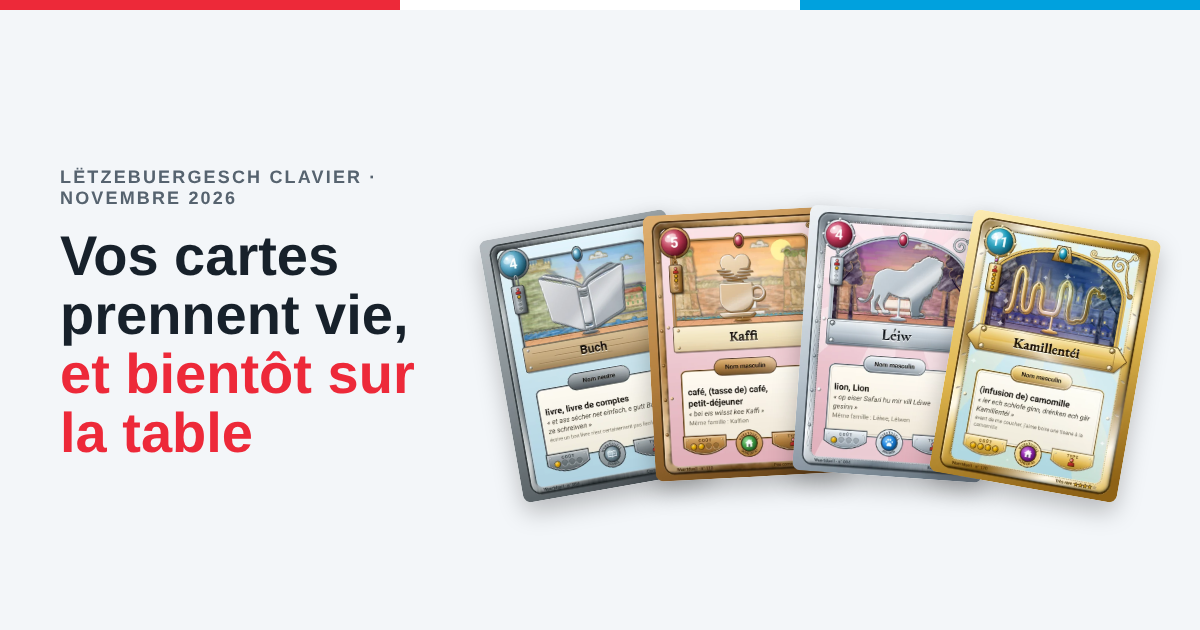
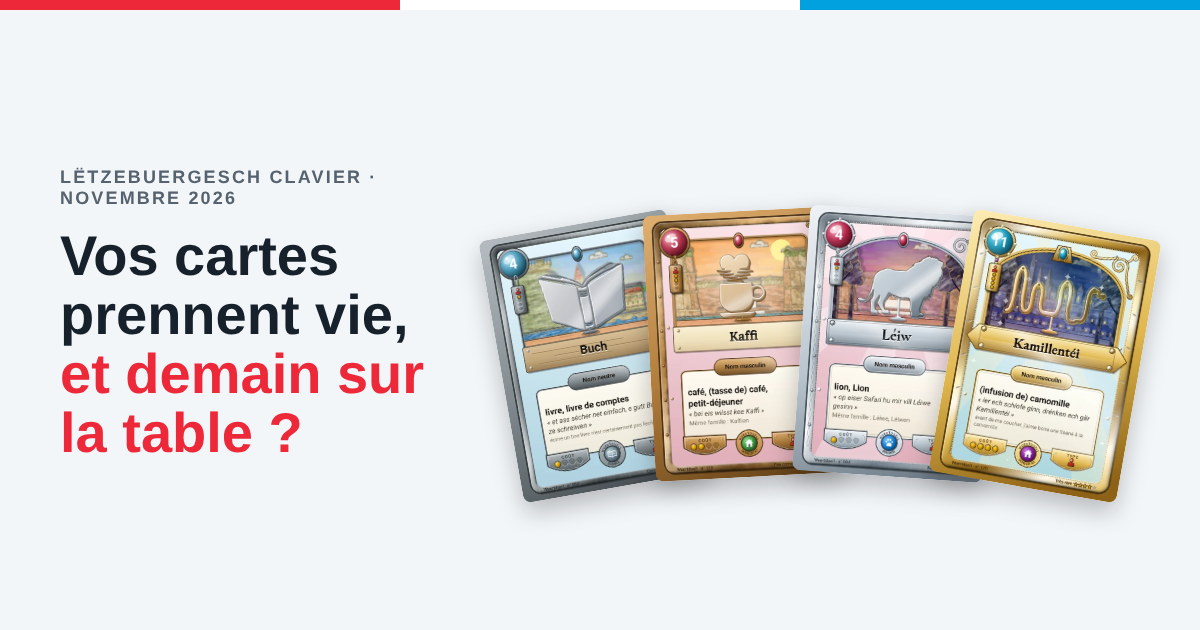
Newsletter de novembre : le jeu de cartes présenté comme une idée, avec un sondage sur l'envie et le prix
Le prix, l'objectif de 350 boîtes et la réservation sont retirés de la lettre :
le jeu n'en est qu'au concept. Une question à un clic, qui marche aussi dans
un e-mail, ouvre sondage-cartes.html : envie, public, prix juste et prix trop
cher, sans prix affiché avant pour ne pas orienter les réponses.

Claude-Session: https://claude.ai/code/session_01Co1KApbE2zjZJU9ZJG8qgA

Changed region(s): [[0.0925, 0.5429, 0.37, 0.7238]]

diff --git a/docs/newsletter/2026-11.html b/docs/newsletter/2026-11.html
@@ -4,21 +4,21 @@
 <meta charset="utf-8">
 <meta name="viewport" content="width=device-width, initial-scale=1, viewport-fit=cover">
 <title>Lëtzebuergesch Clavier, novembre 2026</title>
-<meta name="description" content="Des cartes peintes à la gouache qui prennent vie, les mots de tous les jours pour apprendre, et un vrai jeu de cartes en luxembourgeois à réserver : les nouveautés de novembre.">
+<meta name="description" content="Des cartes peintes à la gouache qui prennent vie, les mots de tous les jours pour apprendre, et une idée à tester avec vous : un vrai jeu de cartes en luxembourgeois.">
 <link rel="icon" type="image/x-icon" href="../favicon.ico">
 <meta property="og:type" content="article">
 <meta property="og:site_name" content="Lëtzebuergesch Clavier">
 <meta property="og:locale" content="fr_FR">
-<meta property="og:title" content="Vos cartes prennent vie, et bientôt sur la table">
-<meta property="og:description" content="Des cartes peintes à la gouache qui prennent vie, les mots de tous les jours pour apprendre, et un vrai jeu de cartes en luxembourgeois à réserver : les nouveautés de novembre.">
+<meta property="og:title" content="Vos cartes prennent vie, et demain sur la table ?">
+<meta property="og:description" content="Des cartes peintes à la gouache qui prennent vie, les mots de tous les jours pour apprendre, et une idée à tester avec vous : un vrai jeu de cartes en luxembourgeois.">
 <meta property="og:url" content="https://famibelle.github.io/LuxKeyb/newsletter/2026-11.html">
 <meta property="og:image" content="https://famibelle.github.io/LuxKeyb/newsletter/2026-11/partage.png">
 <meta property="og:image:width" content="1200">
 <meta property="og:image:height" content="630">
 <meta property="og:image:alt" content="Quatre cartes du Wuertduell en éventail : Buch, Kaffi, Léiw et Kamillentéi.">
 <meta name="twitter:card" content="summary_large_image">
-<meta name="twitter:title" content="Vos cartes prennent vie, et bientôt sur la table">
-<meta name="twitter:description" content="Des cartes peintes à la gouache qui prennent vie, les mots de tous les jours pour apprendre, et un vrai jeu de cartes en luxembourgeois à réserver : les nouveautés de novembre.">
+<meta name="twitter:title" content="Vos cartes prennent vie, et demain sur la table ?">
+<meta name="twitter:description" content="Des cartes peintes à la gouache qui prennent vie, les mots de tous les jours pour apprendre, et une idée à tester avec vous : un vrai jeu de cartes en luxembourgeois.">
 <meta name="twitter:image" content="https://famibelle.github.io/LuxKeyb/newsletter/2026-11/partage.png">
 <link rel="preconnect" href="https://fonts.googleapis.com">
 <link rel="stylesheet" href="https://fonts.googleapis.com/css2?family=Bricolage+Grotesque:opsz,wght@12..96,500;12..96,700;12..96,800&family=Literata:ital,opsz,wght@0,7..72,400;0,7..72,600;1,7..72,400&display=swap">
@@ -92,6 +92,11 @@ figcaption{font:500 13px/1.45 var(--display); color:var(--doux); text-align:cent
 .chiffres b{font:800 26px/1 var(--display); color:var(--rouge)}
 .chiffres span{font:500 13px/1.3 var(--display); color:var(--doux)}
 
+.sondage{background:var(--puce); border-radius:10px; padding:20px 22px; display:grid; gap:14px; margin-top:6px}
+.sondage .question{font:700 20px/1.3 var(--display)}
+.reponses{display:flex; flex-wrap:wrap; gap:10px}
+.note-sondage{font-size:15px; color:var(--doux)}
+
 .appel{display:grid; gap:14px; justify-items:start}
 .bouton{display:inline-block; background:var(--rouge); color:#fff; text-decoration:none; font:700 16px/1 var(--display); padding:15px 22px; border-radius:8px}
 .bouton.second{background:transparent; color:var(--encre); border:2px solid var(--encre)}
@@ -107,8 +112,8 @@ footer{font-size:13px; color:var(--doux); display:grid; gap:6px}
 
     <header>
       <div class="tete"><span>Lëtzebuergesch Clavier</span><span>Novembre 2026</span></div>
-      <h1>Vos cartes prennent vie, <em>et bientôt sur la table</em></h1>
-      <p class="chapo">Ce mois-ci, les cartes de l'application ont été entièrement repeintes, les mots de tous les jours ont leur propre album, et un projet nous tient à cœur : un vrai jeu de cartes en luxembourgeois, à tenir dans la main.</p>
+      <h1>Vos cartes prennent vie, <em>et demain sur la table ?</em></h1>
+      <p class="chapo">Ce mois-ci, les cartes de l'application ont été entièrement repeintes, les mots de tous les jours ont leur propre album, et nous avons une question pour vous : un vrai jeu de cartes en luxembourgeois, ça vous dirait ?</p>
     </header>
 
     <section>
@@ -148,13 +153,13 @@ footer{font-size:13px; color:var(--doux); display:grid; gap:6px}
         <img src="2026-11/c_leiw.webp" alt="Carte rare « Léiw » (lion), de la boîte de départ" width="480" height="671">
         <img src="2026-11/c_kamillentei.webp" alt="Carte très rare « Kamillentéi » (camomille), de la boîte Niveau A2" width="480" height="671">
       </div>
-      <p class="legende-eventail">Quatre cartes, une par boîte, de la plus courante à la plus rare. Ce sont les vraies cartes prévues pour l'impression.</p>
+      <p class="legende-eventail">Quatre maquettes, de la carte la plus courante à la plus rare. Elles existent déjà dans l'application ; on les imagine maintenant en carton.</p>
     </div>
 
     <section>
-      <span class="version">Le projet du moment</span>
-      <h2>Le Wuertduell, un jeu de cartes en luxembourgeois</h2>
-      <p>Vous êtes nombreux à nous l'avoir demandé : « Et en vrai, on peut les avoir, ces cartes ? » Nous y travaillons. Le <strong>Wuertduell</strong> est un jeu de cartes à jouer à deux, en famille ou en classe, pour apprendre le luxembourgeois sans s'en rendre compte.</p>
+      <span class="version">Une idée à l'étude</span>
+      <h2>Et si les cartes sortaient du téléphone ?</h2>
+      <p>Nous imaginons un vrai jeu de cartes en luxembourgeois, le <strong>Wuertduell</strong>, à jouer à deux, en famille ou en classe, pour apprendre la langue sans s'en rendre compte. Rien n'est encore décidé : ni la date, ni le prix. Avant d'aller plus loin, nous voulons savoir si l'idée vous plaît.</p>
 
       <h3>Deux façons de jouer</h3>
       <ul>
@@ -162,26 +167,24 @@ footer{font-size:13px; color:var(--doux); display:grid; gap:6px}
         <li><strong>Le Wuertduell, dès 8 ans</strong> : un vrai duel où l'on choisit ses cartes et sa stratégie. <a href="../regle-du-jeu.html">Lire la règle</a>.</li>
       </ul>
 
-      <h3>Quatre boîtes à collectionner</h3>
+      <h3>Des boîtes à collectionner</h3>
+      <p>Chaque boîte opposerait deux familles de mots, par exemple :</p>
       <div class="boites">
-        <div class="boite" style="--teinte:#ed2939"><strong>La boîte de départ</strong><span><i>Déieren</i> contre <i>Iessen</i> : les animaux contre ce qu'on mange.</span></div>
-        <div class="boite" style="--teinte:#2e9e4f"><strong>L'extension</strong><span><i>Schoul</i> contre <i>Natur</i> : l'école contre la nature.</span></div>
-        <div class="boite" style="--teinte:#00a1de"><strong>Niveau A1</strong><span><i>Doheem</i> contre <i>Dobaussen</i> : les premiers mots, à la maison et dehors.</span></div>
-        <div class="boite" style="--teinte:#7b4fc4"><strong>Niveau A2</strong><span><i>Doheem</i> contre <i>Dobaussen</i> : la suite, pour aller plus loin.</span></div>
+        <div class="boite" style="--teinte:#ed2939"><strong>Les animaux contre ce qu'on mange</strong><span><i>Déieren</i> contre <i>Iessen</i></span></div>
+        <div class="boite" style="--teinte:#2e9e4f"><strong>L'école contre la nature</strong><span><i>Schoul</i> contre <i>Natur</i></span></div>
+        <div class="boite" style="--teinte:#00a1de"><strong>Les premiers mots, à la maison et dehors</strong><span><i>Doheem</i> contre <i>Dobaussen</i>, niveau A1</span></div>
+        <div class="boite" style="--teinte:#7b4fc4"><strong>La suite, pour aller plus loin</strong><span><i>Doheem</i> contre <i>Dobaussen</i>, niveau A2</span></div>
       </div>
-      <div class="chiffres">
-        <div><b>208</b><span>cartes à collectionner</span></div>
-        <div><b>4</b><span>raretés, du fer à l'or</span></div>
-        <div><b>0</b><span>mot en double d'une boîte à l'autre</span></div>
-      </div>
-      <p>Chaque boîte se joue seule, dès qu'on l'ouvre, ou avec les autres. Plus une carte est rare, plus son cadre est précieux. Et dans chaque boîte, un <strong>code ajoute ses 52 cartes au carnet de l'application</strong> : la collection continue sur le téléphone.</p>
-      <p>Les mots, leurs sens et leurs phrases viennent du dictionnaire officiel, le <a href="https://lod.lu">Lëtzebuerger Online Dictionnaire</a>.</p>
+      <p>Chaque boîte se jouerait seule, dès qu'on l'ouvre, ou avec les autres. Plus une carte est rare, plus son cadre est précieux. Et un code dans la boîte ajouterait ses cartes au carnet de l'application : la collection continuerait sur le téléphone.</p>
 
-      <h3>Réservez, sans rien payer</h3>
-      <p>Pour proposer une boîte à <strong>9,90 €</strong>, il faut l'imprimer en série. Nous lançons donc l'impression dès que <strong>350 boîtes</strong> sont réservées. Réserver ne vous engage à rien et ne coûte rien : nous vous écrivons seulement quand l'impression se prépare.</p>
-      <p>Vous pourrez recevoir vos boîtes chez vous, au Luxembourg, en Belgique, en France ou en Allemagne, ou venir les chercher sur l'un de nos stands.</p>
-      <div class="appel">
-        <a class="bouton" href="../commander.html">Réserver mes boîtes</a>
+      <div class="sondage">
+        <p class="question">Ce jeu vous donnerait-il envie ?</p>
+        <div class="reponses">
+          <a class="bouton" href="https://famibelle.github.io/LuxKeyb/sondage-cartes.html?envie=oui&amp;source=newsletter-2026-11">Oui, j'aimerais l'avoir</a>
+          <a class="bouton second" href="https://famibelle.github.io/LuxKeyb/sondage-cartes.html?envie=peut-etre&amp;source=newsletter-2026-11">Peut-être</a>
+          <a class="bouton second" href="https://famibelle.github.io/LuxKeyb/sondage-cartes.html?envie=non&amp;source=newsletter-2026-11">Pas pour moi</a>
+        </div>
+        <p class="note-sondage">Un clic suffit. Si vous avez une minute de plus, trois petites questions suivent, dont une sur le prix qui vous semblerait juste. Aucune adresse e-mail n'est demandée.</p>
       </div>
     </section>
 
@@ -194,7 +197,7 @@ footer{font-size:13px; color:var(--doux); display:grid; gap:6px}
 
     <div class="bref">
       <h2>Et pour les curieux…</h2>
-      <p>Notre laboratoire regorge d'expériences. Ce sont des idées encore en chantier, que vous pouvez essayer avant tout le monde :</p>
+      <p>Notre laboratoire regorge d'expériences. Ce sont des idées encore en chantier, que vous pouvez essayer avant tout le monde&nbsp;:</p>
       <ul>
         <li><strong>Qui a dit quoi ?</strong> Vous déposez l'enregistrement d'une conversation en luxembourgeois. Le texte apparaît, avec le nom de chaque personne qui parle.</li>
         <li><strong>Les sous-titres en direct</strong> : on parle luxembourgeois et le texte s'affiche à l'écran au fur et à mesure, avec sa traduction en français juste en dessous.</li>

diff --git a/docs/sondage-cartes.html b/docs/sondage-cartes.html
@@ -1,0 +1,149 @@
+<!doctype html>
+<html lang="fr">
+<head>
+<meta charset="utf-8">
+<meta name="viewport" content="width=device-width, initial-scale=1, viewport-fit=cover">
+<title>Votre avis sur les cartes</title>
+<meta name="description" content="Un jeu de cartes en luxembourgeois : est-ce qu'il vous donne envie, et à quel prix ? Quatre questions, une minute.">
+<meta name="robots" content="noindex">
+<link rel="icon" type="image/x-icon" href="favicon.ico">
+<link rel="preconnect" href="https://fonts.googleapis.com">
+<link rel="stylesheet" href="https://fonts.googleapis.com/css2?family=Bricolage+Grotesque:opsz,wght@12..96,500;12..96,700;12..96,800&family=Literata:opsz,wght@7..72,400;7..72,600&display=swap">
+<style>
+/* Sondage de la newsletter de novembre 2026 : l'envie pour le jeu de cartes
+   et le prix jugé juste. Les questions de prix viennent AVANT tout prix
+   affiché, pour ne pas influencer la réponse (pas de prix dans la lettre).
+   Les réponses partent sur Formspree, liste « sondage-cartes-2026-11 ». */
+*,*::before,*::after{box-sizing:border-box}
+:root{
+  --fond:#f3f6f9; --papier:#ffffff; --encre:#17212b; --doux:#56636f; --filet:#dbe3ea;
+  --rouge:#ed2939; --bleu:#00a1de; --bleu-encre:#006f9a; --puce:#eef4f8;
+  --display:"Bricolage Grotesque", "Segoe UI", system-ui, sans-serif;
+  --texte:Literata, Georgia, "Times New Roman", serif;
+}
+@media (prefers-color-scheme: dark){:root:not([data-theme="light"]){
+  --fond:#0e141a; --papier:#151d25; --encre:#e8eef3; --doux:#9aa8b4; --filet:#2a3641;
+  --rouge:#ff5a66; --bleu:#3cbcef; --bleu-encre:#7fd3f5; --puce:#1c2731; color-scheme:dark}}
+:root[data-theme="dark"]{
+  --fond:#0e141a; --papier:#151d25; --encre:#e8eef3; --doux:#9aa8b4; --filet:#2a3641;
+  --rouge:#ff5a66; --bleu:#3cbcef; --bleu-encre:#7fd3f5; --puce:#1c2731; color-scheme:dark}
+body{margin:0; background:var(--fond); color:var(--encre); font:17px/1.6 var(--texte); padding:32px 16px 48px}
+.cadre{max-width:620px; margin:0 auto; background:var(--papier); border:1px solid var(--filet); border-radius:6px; overflow:hidden}
+.drapeau{display:flex; height:6px}
+.drapeau span{flex:1}
+.drapeau span:nth-child(1){background:#ed2939}.drapeau span:nth-child(2){background:#fff; border-block:1px solid var(--filet)}.drapeau span:nth-child(3){background:#00a1de}
+.corps{padding:32px clamp(20px,6vw,44px) 36px; display:grid; gap:26px}
+h1{font:800 clamp(28px,6vw,38px)/1.1 var(--display); margin:0; letter-spacing:-.02em}
+p{margin:0}
+.chapo{color:var(--doux)}
+fieldset{border:0; margin:0; padding:0; display:grid; gap:8px}
+legend{font:700 18px/1.3 var(--display); padding:0; margin-bottom:8px}
+.aide{font-size:15px; color:var(--doux); margin:-4px 0 4px}
+label.choix{display:flex; gap:10px; align-items:center; padding:10px 14px; border:1px solid var(--filet); border-radius:8px; cursor:pointer}
+label.choix:has(input:checked){border-color:var(--rouge); background:var(--puce)}
+input[type=radio],input[type=checkbox]{accent-color:#ed2939; width:18px; height:18px; flex:none}
+textarea,input[type=email]{width:100%; padding:10px; font:16px var(--texte); border:1px solid var(--filet); border-radius:8px; background:var(--papier); color:var(--encre)}
+textarea{min-height:90px}
+button{background:var(--rouge); color:#fff; border:0; font:700 16px/1 var(--display); padding:15px 22px; border-radius:8px; cursor:pointer; justify-self:start}
+button:focus-visible{outline:3px solid var(--bleu); outline-offset:3px}
+.note{font-size:14px; color:var(--doux)}
+#message{font:700 17px/1.4 var(--display)}
+a{color:var(--bleu-encre)}
+</style>
+</head>
+<body>
+<main class="cadre">
+  <div class="drapeau" aria-hidden="true"><span></span><span></span><span></span></div>
+  <div class="corps">
+    <h1>Un jeu de cartes en luxembourgeois : votre avis</h1>
+    <p class="chapo">Ce n'est encore qu'une idée. Vos réponses nous disent s'il faut la mener jusqu'au bout, et comment. Quatre questions, une minute, et aucune adresse e-mail obligatoire.</p>
+
+    <form id="sondage" action="https://formspree.io/f/mvgwnlky" method="POST" style="display:grid;gap:26px">
+      <input type="hidden" name="_subject" value="Sondage : le jeu de cartes">
+      <input type="hidden" name="liste" value="sondage-cartes-2026-11">
+      <input type="hidden" name="source" id="source" value="">
+
+      <fieldset>
+        <legend>1. Ce jeu vous donne-t-il envie ?</legend>
+        <label class="choix"><input type="radio" name="envie" value="oui" required> Oui, j'aimerais l'avoir</label>
+        <label class="choix"><input type="radio" name="envie" value="peut-etre"> Peut-être, je veux en savoir plus</label>
+        <label class="choix"><input type="radio" name="envie" value="non"> Pas pour moi</label>
+      </fieldset>
+
+      <fieldset>
+        <legend>2. Pour qui ?</legend>
+        <p class="aide">Plusieurs réponses possibles.</p>
+        <label class="choix"><input type="checkbox" name="pour_qui" value="enfants"> Mes enfants ou petits-enfants</label>
+        <label class="choix"><input type="checkbox" name="pour_qui" value="moi"> Moi, pour apprendre la langue</label>
+        <label class="choix"><input type="checkbox" name="pour_qui" value="classe"> Une classe, un atelier, une association</label>
+        <label class="choix"><input type="checkbox" name="pour_qui" value="cadeau"> Pour offrir</label>
+      </fieldset>
+
+      <fieldset>
+        <legend>3. Pour une boîte de 54 cartes, quel prix vous semble juste ?</legend>
+        <label class="choix"><input type="radio" name="prix_juste" value="moins de 5 €" required> Moins de 5 €</label>
+        <label class="choix"><input type="radio" name="prix_juste" value="5 à 8 €"> De 5 à 8 €</label>
+        <label class="choix"><input type="radio" name="prix_juste" value="8 à 12 €"> De 8 à 12 €</label>
+        <label class="choix"><input type="radio" name="prix_juste" value="12 à 15 €"> De 12 à 15 €</label>
+        <label class="choix"><input type="radio" name="prix_juste" value="plus de 15 €"> Plus de 15 €</label>
+      </fieldset>
+
+      <fieldset>
+        <legend>4. À partir de quel prix ne l'achèteriez-vous plus ?</legend>
+        <p class="aide">Le prix où vous vous dites : « c'est trop cher ».</p>
+        <label class="choix"><input type="radio" name="prix_trop_cher" value="5 €" required> 5 €</label>
+        <label class="choix"><input type="radio" name="prix_trop_cher" value="8 €"> 8 €</label>
+        <label class="choix"><input type="radio" name="prix_trop_cher" value="12 €"> 12 €</label>
+        <label class="choix"><input type="radio" name="prix_trop_cher" value="15 €"> 15 €</label>
+        <label class="choix"><input type="radio" name="prix_trop_cher" value="20 €"> 20 €</label>
+        <label class="choix"><input type="radio" name="prix_trop_cher" value="plus de 20 €"> Plus de 20 €</label>
+      </fieldset>
+
+      <fieldset>
+        <legend>Un mot à ajouter ? <span style="font-weight:500;color:var(--doux)">(facultatif)</span></legend>
+        <textarea name="commentaire" aria-label="Votre commentaire" placeholder="Une idée de boîte, un thème, une remarque…"></textarea>
+      </fieldset>
+
+      <fieldset>
+        <legend>Être prévenu si le jeu voit le jour ? <span style="font-weight:500;color:var(--doux)">(facultatif)</span></legend>
+        <input type="email" name="email" autocomplete="email" aria-label="Votre e-mail" placeholder="votre@adresse.lu">
+        <p class="note">Votre adresse sert seulement à vous écrire au sujet du jeu. Elle est effacée sur simple demande, ou si le projet s'arrête.</p>
+      </fieldset>
+
+      <button type="submit">Envoyer mon avis</button>
+      <p id="message" role="status"></p>
+    </form>
+
+    <p class="note">Les réponses sont recueillies par <a href="https://formspree.io/legal/privacy-policy">Formspree</a>, comme les avis sur l'application. <a href="newsletter/2026-11.html">Retour à la newsletter</a></p>
+  </div>
+</main>
+<script>
+(function () {
+  var form = document.getElementById('sondage');
+  var message = document.getElementById('message');
+  var q = new URLSearchParams(location.search);
+  /* Le clic dans la lettre choisit déjà la réponse à la question 1. */
+  var envie = q.get('envie');
+  if (envie) {
+    var r = form.querySelector('input[name="envie"][value="' + envie.replace(/[^a-z-]/g, '') + '"]');
+    if (r) r.checked = true;
+  }
+  document.getElementById('source').value = q.get('source') || 'direct';
+
+  form.addEventListener('submit', function (e) {
+    e.preventDefault();
+    message.textContent = 'Envoi…';
+    fetch(form.action, { method: 'POST', body: new FormData(form), headers: { 'Accept': 'application/json' } })
+      .then(function (r) {
+        if (!r.ok) throw new Error(r.status);
+        form.reset();
+        message.textContent = 'Merci ! Votre avis compte vraiment pour la suite.';
+      })
+      .catch(function () {
+        message.textContent = 'L\'envoi n\'a pas marché. Réessayez dans un instant.';
+      });
+  });
+})();
+</script>
+</body>
+</html>

diff --git a/docs/newsletter/2026-11/_partage.html b/docs/newsletter/2026-11/_partage.html
@@ -1,0 +1,7 @@
+<html><body style="margin:0;width:1200px;height:630px;background:#f3f6f9;display:flex;align-items:center;font-family:sans-serif;overflow:hidden">
+<div style="position:absolute;top:0;left:0;right:0;height:10px;display:flex"><i style="flex:1;background:#ed2939"></i><i style="flex:1;background:#fff"></i><i style="flex:1;background:#00a1de"></i></div>
+<div style="width:470px;padding:0 0 0 60px"><div style="font:600 18px sans-serif;letter-spacing:.12em;color:#56636f;text-transform:uppercase">Lëtzebuergesch Clavier · Novembre 2026</div>
+<div style="font:800 56px/1.05 sans-serif;color:#17212b;margin-top:18px">Vos cartes prennent vie, <span style="color:#ed2939">et demain sur la table ?</span></div></div>
+<div style="flex:1;display:flex;justify-content:center;align-items:flex-end;padding-top:60px"><img src="c_buch.webp"><img src="c_kaffi.webp"><img src="c_leiw.webp"><img src="c_kamillentei.webp"></div>
+<style>img{width:190px;border-radius:8px;box-shadow:0 10px 24px rgba(0,0,0,.25);position:relative}
+img:nth-child(1){transform:rotate(-10deg) translate(30%,8%)}img:nth-child(2){transform:rotate(-3deg) translate(10%,0);z-index:1}img:nth-child(3){transform:rotate(4deg) translate(-10%,0);z-index:2}img:nth-child(4){transform:rotate(10deg) translate(-30%,8%);z-index:3}</style></body></html>

diff --git a/docs/newsletter/index.html b/docs/newsletter/index.html
@@ -84,8 +84,8 @@ footer a{color:var(--bleu-encre)}
         <img src="2026-11/partage.png" alt="Quatre cartes du Wuertduell en éventail : Buch, Kaffi, Léiw et Kamillentéi." width="1200" height="630">
         <div class="texte">
           <span class="date">Novembre 2026</span>
-          <h2>Vos cartes prennent vie, et bientôt sur la table</h2>
-          <p>Des cartes peintes à la gouache, les mots de tous les jours pour apprendre, et le Wuertduell, un vrai jeu de cartes en luxembourgeois à réserver.</p>
+          <h2>Vos cartes prennent vie, et demain sur la table ?</h2>
+          <p>Des cartes peintes à la gouache, les mots de tous les jours pour apprendre, et une idée à tester : un vrai jeu de cartes en luxembourgeois. Votre avis compte.</p>
           <span class="lire">Lire la lettre →</span>
         </div>
       </a>
